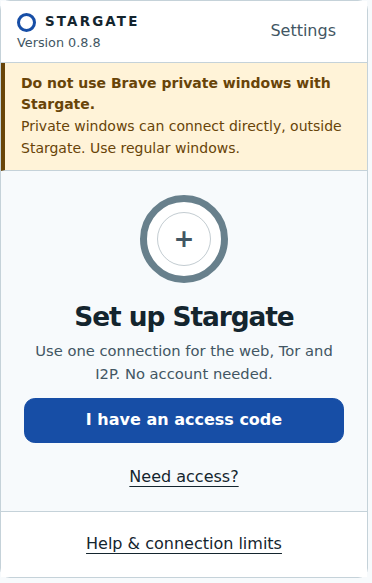
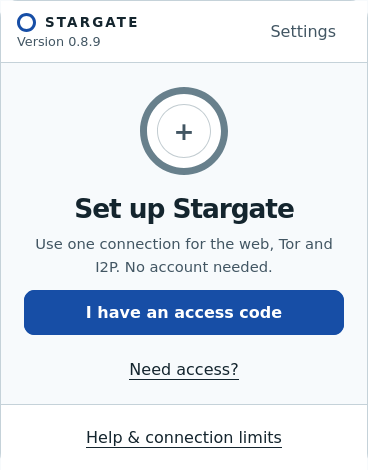
Align documentation screenshots and illustrate connected controls

diff --git a/README.md b/README.md
@@ -61,7 +61,9 @@ other Linux hosts need [manual prerequisite setup](docs/setup-prerequisites.md).
 Once the extension is installed, open Stargate and choose **I have an access code**.
 Follow the setup steps, then browse from your usual address bar.
 
-[<img src="docs/media/readme/stargate-popup.png" width="320" alt="The initial Stargate popup, ready to start setup with an access code">](docs/media/readme/stargate-popup.png)
+<p align="center">
+  <a href="docs/media/readme/stargate-popup.png"><img src="docs/media/readme/stargate-popup.png" width="300" alt="Stargate 0.8.9 before setup, with I have an access code"></a>
+</p>
 
 [Get started with Firefox or Brave →](docs/getting-started.md)
 
@@ -70,14 +72,24 @@ Follow the setup steps, then browse from your usual address bar.
 Pick **Clear**, **Stargate** or **Observatory** in **Settings → Appearance**.
 Themes change the look; your saved access and routes stay the same.
 
-| Clear | Stargate | Observatory |
-| --- | --- | --- |
-| [<img src="docs/media/readme/clear-popup.png" width="240" alt="Clear: a light theme with blue accents">](docs/media/readme/clear-popup.png) | [<img src="docs/media/readme/stargate-popup.png" width="240" alt="Stargate: a dark blue theme with portal artwork">](docs/media/readme/stargate-popup.png) | [<img src="docs/media/readme/observatory-popup.png" width="240" alt="Observatory: a purple theme with a ringed planet">](docs/media/readme/observatory-popup.png) |
+The examples below show the connected-state controls with a **fictional server**.
+They are labeled demonstrations, not live connections or network tests.
+
+<table align="center">
+  <thead><tr><th>Clear</th><th>Stargate</th><th>Observatory</th></tr></thead>
+  <tbody><tr>
+    <td align="center" valign="top"><a href="docs/media/extension/connected-clear.png"><img src="docs/media/extension/connected-clear.png" width="200" alt="Clear theme: illustrative connected state with example server gate.example.org:9443; no live connection"></a></td>
+    <td align="center" valign="top"><a href="docs/media/extension/connected-stargate.png"><img src="docs/media/extension/connected-stargate.png" width="200" alt="Stargate theme: illustrative connected state with example server gate.example.org:9443; no live connection"></a></td>
+    <td align="center" valign="top"><a href="docs/media/extension/connected-observatory.png"><img src="docs/media/extension/connected-observatory.png" width="200" alt="Observatory theme: illustrative connected state with example server gate.example.org:9443; no live connection"></a></td>
+  </tr></tbody>
+</table>
 
 Open **Settings** for appearance, motion and optional features. Advanced mode
 can stay off until you need it.
 
-[<img src="docs/media/readme/stargate-settings.png" width="560" alt="Stargate Settings, with theme choices, motion preferences and optional IPFS setup">](docs/media/readme/stargate-settings.png)
+<p align="center">
+  <a href="docs/media/extension/appearance-controls.png"><img src="docs/media/extension/appearance-controls.png" width="640" alt="Appearance controls with Clear selected and the Motion preference"></a>
+</p>
 
 [Customize Stargate →](docs/customization.md)
 
@@ -86,11 +98,14 @@ can stay off until you need it.
 The setup page walks you through preparing your browser and connecting.
 A Firefox/Brave quick-start is built in, so the steps are there when you need them.
 
-[<img src="docs/media/readme/quick-start-guide.png" width="640" alt="The built-in Firefox and Brave quick-start, showing browser preparation and installation steps">](docs/media/readme/quick-start-guide.png)
+<p align="center">
+  <a href="docs/media/extension/setup-form.png"><img src="docs/media/extension/setup-form.png" width="640" alt="Connect this browser form with empty server-address and one-time access-code fields"></a>
+</p>
 
 [Follow the setup and find help →](docs/onboarding.md)
 
-*Screens shown before connecting to a server.*
+*Setup and settings captures show an unpaired browser. Connected-state examples
+use synthetic state and a reserved example address.*
 
 ## Where your traffic goes
 

diff --git a/docs/user-guide.md b/docs/user-guide.md
@@ -94,8 +94,9 @@ verified as protection. The private-window warning does not block that traffic.
 3. Review **3. Browser settings applied**. Check the server address and preparation
    note. If access was saved but settings failed, complete the indicated browser
    step and use **Apply browser settings**. You do not need another code for this.
-4. Fully quit and reopen the browser before sensitive browsing. In Firefox, load
-   the same temporary XPI again. Open Stargate and check that its settings are on.
+4. Fully quit and reopen the browser before sensitive browsing. In Firefox,
+   reload the same XPI only if you installed it temporarily. Open Stargate and
+   check that its settings are on.
 5. Open a website from the normal address bar. Applied settings do not prove that
    a website or every network is currently reachable.
 
@@ -103,6 +104,12 @@ Codes are single-use and expire after **five minutes by default**, or **24 hours
 if the operator selected that option. Once saved, browser access does not end when
 the code expires. It remains usable unless revoked or its configuration changes.
 You do not need a new code for every visit or ordinary restart.
+
+<p align="center">
+  <a href="media/extension/setup-form.png"><img src="media/extension/setup-form.png" width="640" alt="Empty server-address and one-time access-code fields in Connect this browser"></a>
+</p>
+
+*Setup before pairing; the address shown is a placeholder.*
 
 ## 3. Everyday controls
 
@@ -117,6 +124,13 @@ a full tab. The installed version appears in the header of both views.
 | **Settings are on** with server status unavailable | Keep settings on; inspect **Connection details** or contact the operator. Status failure alone does not prove forwarding stopped. |
 | **Settings need attention** / **Settings are not confirmed** | Read the message before browsing. Another extension or browser policy may control a required setting. |
 | **One network needs attention** | Check that route's observation; other networks may still work. |
+
+<p align="center">
+  <a href="media/extension/connected-stargate.png"><img src="media/extension/connected-stargate.png" width="300" alt="Illustrative Stargate is on popup with example server gate.example.org:9443; no live connection"></a>
+</p>
+
+*Illustrative connected state with a fictional server; this is not a live
+connection or a network test.*
 
 The toolbar icon, badge and tooltip reflect these settings states. They are not
 proof that a destination is reachable. A listening port or a past successful
@@ -140,6 +154,10 @@ to keep browsing through Stargate.
 **Settings → Appearance** offers **Clear**, **Stargate** and **Observatory**.
 They change appearance only, using local assets. **Motion → Reduce motion** works
 with every theme. The toolbar indicators are static.
+
+<p align="center">
+  <a href="media/extension/appearance-controls.png"><img src="media/extension/appearance-controls.png" width="640" alt="Clear, Stargate and Observatory theme buttons and the Motion preference"></a>
+</p>
 
 Leave **Advanced mode** off unless you need one of these controls:
 
@@ -168,6 +186,13 @@ Keep the tab open until approval. If needed, inspect `brave://settings/handlers`
 Approve the handler before typing an `ipfs://` address; otherwise the browser may
 send it to a search provider. After setup, use the normal address bar. The
 **IPFS tool** also accepts a CID or IPFS address and opens content in a new tab.
+
+<p align="center">
+  <a href="media/extension/ipfs-tool.png"><img src="media/extension/ipfs-tool.png" width="640" alt="IPFS tool with an empty CID or ipfs address field and Open content through Nym button"></a>
+</p>
+
+*The tool before entering an address. Saved access and applied settings are
+required before opening content.*
 
 Content comes from the selected HTTPS gateway through Nym. Stargate does not run
 a local IPFS node, publish content, support IPNS or independently verify content

diff --git a/docs/media/readme/README.md b/docs/media/readme/README.md
@@ -9,10 +9,14 @@ lettering beside an abstract swirl in Firefox gradient colors. "Firefox" and
 "Mozilla Add-ons" are Mozilla trademarks; the badge only links to the store
 listing and implies no endorsement.
 
-The six screenshots show the actual 0.8.8 extension in Brave 1.98.60 before
-pairing, using empty fields and example placeholders. They illustrate the popup,
-three themes, settings, onboarding and built-in quick-start. They do not prove
-network access or a completed accessibility audit.
+The three `*-popup.png` screenshots show the signed Firefox 0.8.9 extension
+before pairing. They use empty fields and example placeholders. The older
+`stargate-settings.png`, `onboarding.png` and `quick-start-guide.png` captures
+show 0.8.8 in Brave 1.98.60 before pairing. They illustrate controls, not network
+access or a completed accessibility audit.
+
+The README also uses [shared extension illustrations](../extension/README.md),
+including visibly labeled connected-state demos with a reserved example address.
 
 Project artwork and UI screenshots use Apache-2.0. Font-derived outlines retain
 the [DejaVu/Bitstream notice](DejaVu-LICENSE.txt); no font file is bundled.

diff --git a/docs/media/extension/README.md b/docs/media/extension/README.md
@@ -1,0 +1,15 @@
+# Extension illustrations
+
+These images illustrate the Firefox 0.8.9 interface. Theme choices change the
+appearance, not the routing behavior.
+
+- `connected-*.png` render the extension UI with synthetic settings state and
+  the reserved example address `https://gate.example.org:9443`. Each image is
+  visibly labeled as an illustrative demo with no live connection. No server
+  was contacted and no access code or device credential is represented.
+- `setup-form.png`, `appearance-controls.png` and `ipfs-tool.png` show the signed
+  extension in an unpaired browser. Form fields are empty. The IPFS gateway is
+  the extension's public default; no content has been opened.
+
+Images illustrate controls, not current network availability or a completed
+routing test. Project UI artwork and screenshots use Apache-2.0.

diff --git a/docs/getting-started.md b/docs/getting-started.md
@@ -112,6 +112,13 @@ chose that option. Expiry does not end access already saved in your browser.
 An expired or used code needs a fresh replacement; do not repeatedly retry it.
 If pairing's result is unknown, ask the operator to check before trying again.
 
+<p align="center">
+  <a href="media/extension/setup-form.png"><img src="media/extension/setup-form.png" width="640" alt="Connect this browser form with empty address and access-code fields"></a>
+</p>
+
+*The form before pairing. Use the server address from your operator, not the
+example placeholder.*
+
 ## What next?
 
 - [Make Stargate look the way you like](customization.md).
